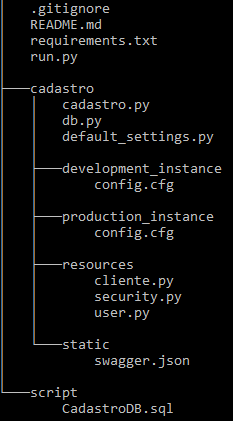
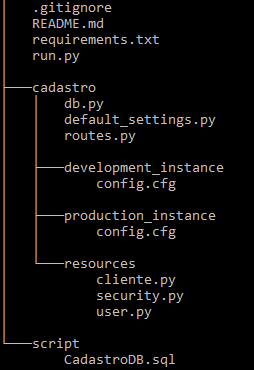
ajuste current app

Changed region(s): [[0.0, 0.0, 0.9614, 1.0]]

diff --git a/cadastro/resources/cliente.py b/cadastro/resources/cliente.py
@@ -1,75 +1,15 @@
-from flask import Flask, request, Blueprint
-from flask_restful import Api, Resource, reqparse
-from threading import Lock
-import logging
-from retry import retry
-from tenacity import *
+from flask import Flask, request, current_app
+from flask_restful import  Resource
 import pyodbc
-from ..db import db_connection
-from flask_jwt import JWT, jwt_required, current_identity
+from ..db import ConnectionManager
+from flask_jwt import jwt_required
 
 app = Flask (__name__)
 
-
-
-# Implement singleton to avoid global objects
-class ConnectionManager(object):    
-    __instance = None
-    __connection = None
-    __lock = Lock()
-
-    def __new__(cls):
-        if ConnectionManager.__instance is None:
-            ConnectionManager.__instance = object.__new__(cls)        
-        return ConnectionManager.__instance       
-    
-    def __getConnection(self):
-        if (self.__connection == None):
-            self.__connection =   pyodbc.connect(db_connection)         
-        return self.__connection
-
-    def __removeConnection(self):
-        self.__connection = None
-
-    @retry(stop=stop_after_attempt(3), wait=wait_fixed(10), retry=retry_if_exception_type(pyodbc.OperationalError), after=after_log(app.logger, logging.DEBUG))
-    def executeQueryJSON(self, procedure, payload=None):
-        result = {}  
-        
-        try:
-            conn = self.__getConnection()
-            
-            cursor = conn.cursor()
-              
-            if payload:
-                cursor.execute(f"EXEC {procedure} "+ payload)
-            else:
-                cursor.execute(f"EXEC {procedure} ")
-
-            try:
-                result = [dict((cursor.description[i][0], value) \
-                    for i, value in enumerate(row)) for row in cursor.fetchall()]                           
-            except:
-                result = {}
-
-            cursor.commit()  
-
-        except pyodbc.OperationalError as e:            
-            app.logger.error(f"{e.args[1]}")
-            if e.args[0] == "08S01":
-                # If there is a "Communication Link Failure" error, 
-                # then connection must be removed
-                # as it will be in an invalid state
-                self.__removeConnection() 
-                raise                        
-        finally:
-            cursor.close()
-                            
-        return result
-
 class Queryable(Resource):
     def executeQueryJson(self, verb, payload=None):
-        result = {}  
-        procedure = f"[dbo].{verb}"
+        schema = current_app.config['SQLSERVER_SCHEMA'] 
+        procedure = f"{schema}.{verb}"
         result = ConnectionManager().executeQueryJSON(procedure, payload)
         return result
 

diff --git a/cadastro/db.py b/cadastro/db.py
@@ -1,10 +1,66 @@
 import pyodbc
+from os import path
+from flask import current_app
+import logging
+from retry import retry
+from threading import Lock
+from tenacity import *
 
-server = 'DESKTOP-NE0O540'
-database = 'CadastroDB'
-username = 'delgado'
-password = 'xxxx'
+# Implementar singleton para evitar objetos globais
+class ConnectionManager(object):    
+    __instance = None
+    __connection = None
+    __lock = Lock()
+    __logger = logging.getLogger(__name__)
 
-#connection string utilizado para o sql server
-db_connection = ('DRIVER={SQL Server Native Client 11.0};SERVER='+server+';DATABASE='+database+';UID='+username+';PWD='+ password)  
+    def __new__(cls):
+        if ConnectionManager.__instance is None:
+            ConnectionManager.__instance = object.__new__(cls)        
+        return ConnectionManager.__instance       
+    
+    def __getConnection(self):
+        if (self.__connection == None):
+            self.__connection =   pyodbc.connect(current_app.config['SQLSERVER_CONNECTION_STRING'])         
+        return self.__connection
+
+    def __removeConnection(self):
+        self.__connection = None
+
+    @retry(stop=stop_after_attempt(3), wait=wait_fixed(10), retry=retry_if_exception_type(pyodbc.OperationalError), after=after_log(__logger, logging.DEBUG))
+    def executeQueryJSON(self, procedure, payload=None):
+        result = {}  
+        
+        try:
+            conn = self.__getConnection()
+            
+            cursor = conn.cursor()
+              
+            if payload:
+                cursor.execute(f"EXEC {procedure} "+ payload)
+            else:
+                cursor.execute(f"EXEC {procedure} ")
+
+            try:
+                result = [dict((cursor.description[i][0], value) \
+                    for i, value in enumerate(row)) for row in cursor.fetchall()]                           
+            except:
+                result = {}
+
+            cursor.commit()  
+
+        except pyodbc.OperationalError as e:            
+            app.logger.error(f"{e.args[1]}")
+            if e.args[0] == "08S01":
+                # Se houver um erro "Communication Link Failure",
+                # então a conexão deve ser removida
+                # como estará em um estado inválido 
+                self.__removeConnection() 
+                raise                        
+        finally:
+            cursor.close()
+                            
+        return result
+
+
+
 

diff --git a/cadastro/routes.py b/cadastro/routes.py
@@ -5,7 +5,7 @@ from .resources.cliente import Customer, Customers
 from flask_restful import Api
 from flask_swagger_ui import get_swaggerui_blueprint
 from .resources.security import authenticate, identity
-from flask_jwt import JWT, jwt_required, current_identity
+from flask_jwt import JWT
 
 
 def create_app(mode):
@@ -18,28 +18,24 @@ def create_app(mode):
     
     app.config.from_object('cadastro.default_settings')
     app.config.from_pyfile('config.cfg')
-    app.config['PROPAGATE_EXCEPTIONS'] = True # To allow flask propagating exception even if debug is set to false on app
-    app.secret_key = 'jose'
-    app.config.update(
-    JWT_AUTH_HEADER_PREFIX = 'Bearer'
-    )
+    app.secret_key = app.config['SECRET_KEY']
+
     jwt = JWT(app, authenticate, identity)
 
-    ### swagger specific ###
+    ### swagger implementacao ###
     SWAGGER_URL = '/swagger'
     API_URL = '/static/swagger.json'
-
 
     SWAGGERUI_BLUEPRINT = get_swaggerui_blueprint(
         SWAGGER_URL,
         API_URL,
         config={
-            'app_name': "FlaskApp",
+            'app_name': app.config['APP_NAMME'],
             "openapi": "3.0.1"
         }
     )
     app.register_blueprint(SWAGGERUI_BLUEPRINT, url_prefix=SWAGGER_URL)
-    ### end swagger specific ###
+    ### fim da implementação do swagger ###
     
     api = Api(app)
     # Create API routes

diff --git a/cadastro/default_settings.py b/cadastro/default_settings.py
@@ -1,2 +1,5 @@
 import os
 PROJECT_ROOT = os.path.abspath(os.path.dirname(__file__))
+PROPAGATE_EXCEPTIONS = True # To allow flask propagating exception even if debug is set to false on app
+JWT_AUTH_HEADER_PREFIX = 'Bearer'
+APP_NAMME = 'FlaskApp'

diff --git a/README.md b/README.md
@@ -62,7 +62,7 @@ Este arquivo `requirements.txt` é usado para especificar quais pacotes python s
 
 Dentro da pasta cadastro estão localizados os principais arquivos da aplicação. No Flask, você tem rotas (URLs) definidas como  function decorators para a application ou blueprint; portanto, no arquivo `routes.py` é definido a funcionalidade para URLs diferentes.
 
-`db.py` contem as informações para conexão com o banco de dados.
+`db.py` contém as informações para conexão com o banco de dados.
 
 Gerenciar estes múltiplos ambientes requer acima de tudo muita disciplina, a Regra N.1 deverá ser seguida a risca, ou seja, NUNCA faça configurações no modo HARD CODED, sempre utilize variáveis de settings para coisas que se alteram entre diferentes ambientes e o arquivo `default_settings.py` armazena valores fixos para os diversos ambientes.
 
